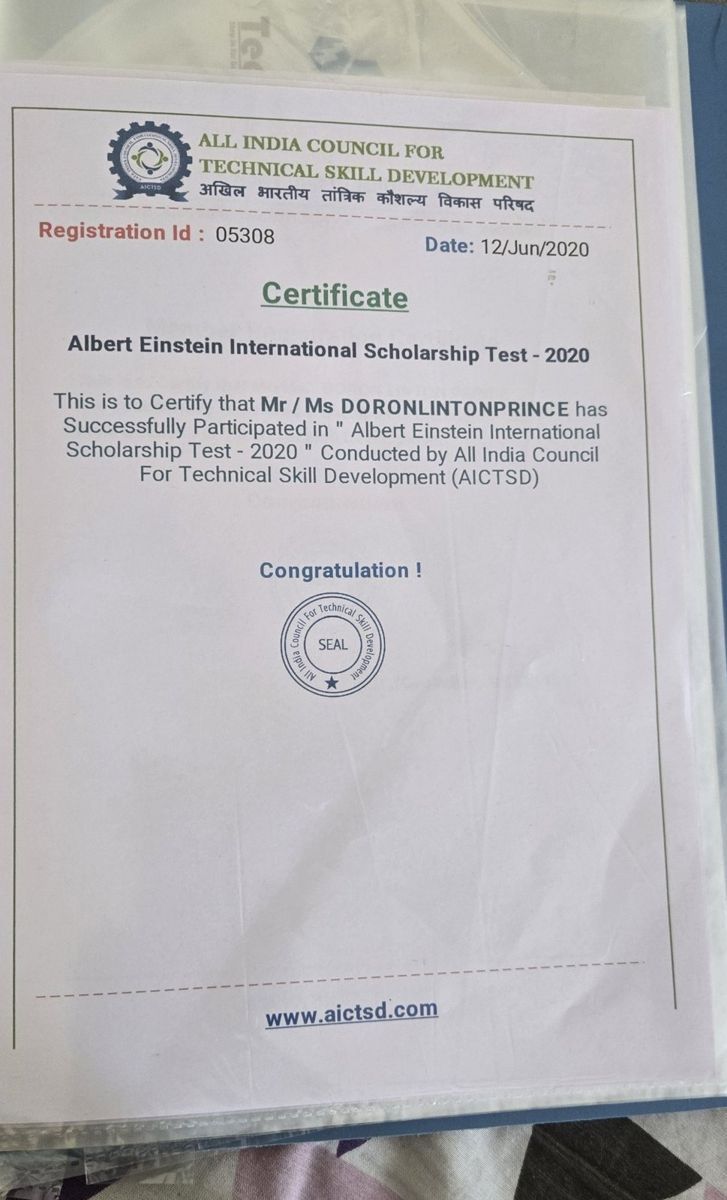
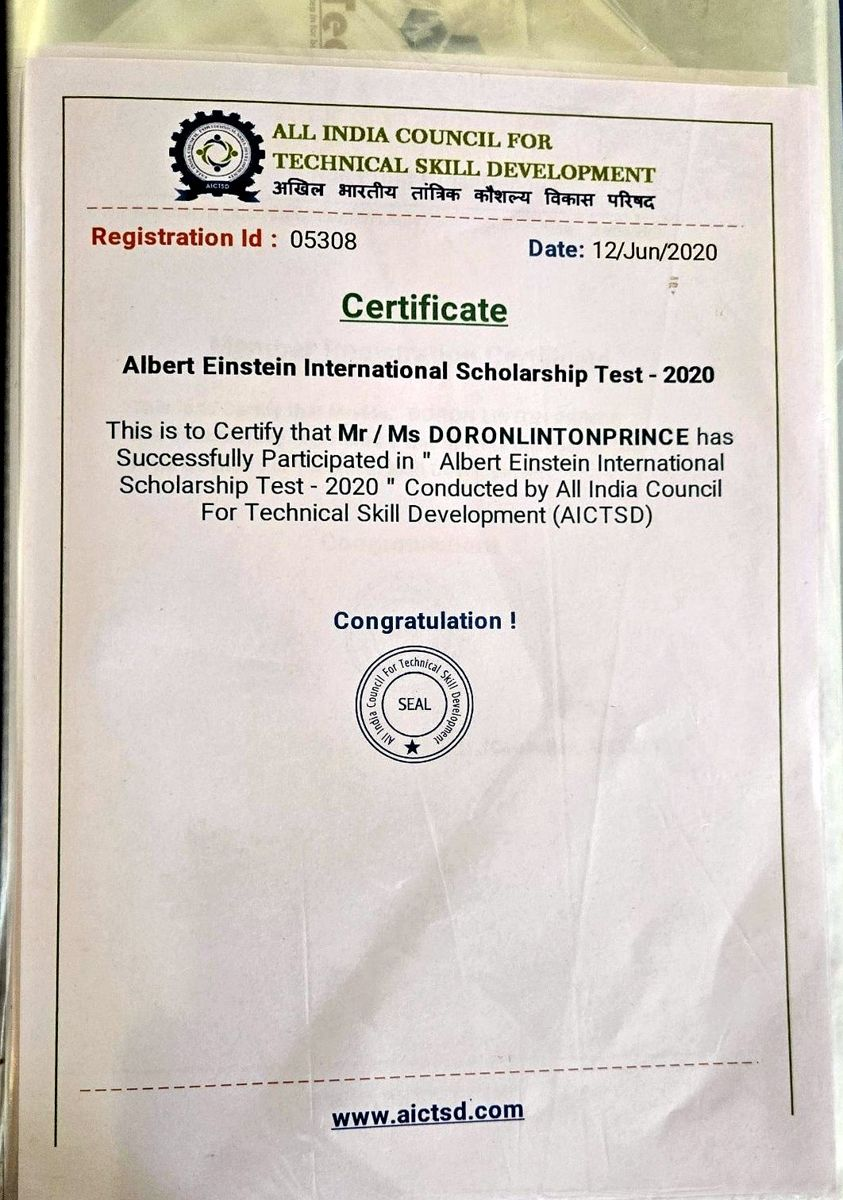
Use straightened, perspective-corrected certificate scans
Claude-Session: https://claude.ai/code/session_011wr31rNC9C3wTyA1fnovrN

diff --git a/index.html b/index.html
@@ -494,25 +494,25 @@
       </figure>
       <figure class="cert reveal">
         <button class="cert__open" type="button" data-cert="assets/certificates/sias-youth-camp.jpg" aria-label="View certificate: 2024 Global Youth Camp">
-          <img src="assets/certificates/sias-youth-camp.jpg" alt="2024 Global Youth Camp certificate" width="1200" height="777" loading="lazy" decoding="async">
+          <img src="assets/certificates/sias-youth-camp.jpg" alt="2024 Global Youth Camp certificate" width="1200" height="809" loading="lazy" decoding="async">
         </button>
         <figcaption><strong>2024 Global Youth Camp</strong><span>SIAS University, China · 2024</span></figcaption>
       </figure>
       <figure class="cert reveal">
         <button class="cert__open" type="button" data-cert="assets/certificates/iitm-ai-biomedical.jpg" aria-label="View certificate: AI with ML in Bio-Medical">
-          <img src="assets/certificates/iitm-ai-biomedical.jpg" alt="AI with ML in Bio-Medical certificate" width="1200" height="849" loading="lazy" decoding="async">
+          <img src="assets/certificates/iitm-ai-biomedical.jpg" alt="AI with ML in Bio-Medical certificate" width="1200" height="760" loading="lazy" decoding="async">
         </button>
         <figcaption><strong>AI with ML in Bio-Medical</strong><span>Techobytes × CHES IIT Madras · Jan 2024</span></figcaption>
       </figure>
       <figure class="cert reveal">
         <button class="cert__open" type="button" data-cert="assets/certificates/research-instrumentation.jpg" aria-label="View certificate: Scientific Research &amp; Instrumentation">
-          <img src="assets/certificates/research-instrumentation.jpg" alt="Scientific Research &amp; Instrumentation certificate" width="1200" height="676" loading="lazy" decoding="async">
+          <img src="assets/certificates/research-instrumentation.jpg" alt="Scientific Research &amp; Instrumentation certificate" width="1200" height="829" loading="lazy" decoding="async">
         </button>
         <figcaption><strong>Scientific Research &amp; Instrumentation</strong><span>HITS winter course · Dec 2023</span></figcaption>
       </figure>
       <figure class="cert reveal">
         <button class="cert__open" type="button" data-cert="assets/certificates/skillathon-game-design.jpg" aria-label="View certificate: Skill-A-Thon 23 · Game Designing">
-          <img src="assets/certificates/skillathon-game-design.jpg" alt="Skill-A-Thon 23 · Game Designing certificate" width="1200" height="804" loading="lazy" decoding="async">
+          <img src="assets/certificates/skillathon-game-design.jpg" alt="Skill-A-Thon 23 · Game Designing certificate" width="1200" height="768" loading="lazy" decoding="async">
         </button>
         <figcaption><strong>Skill-A-Thon 23 · Game Designing</strong><span>HITS CSE · Sep 2023</span></figcaption>
       </figure>
@@ -530,79 +530,79 @@
       </figure>
       <figure class="cert reveal">
         <button class="cert__open" type="button" data-cert="assets/certificates/code2win-rank2.jpg" aria-label="View certificate: CODE2WIN · Rank 2">
-          <img src="assets/certificates/code2win-rank2.jpg" alt="CODE2WIN · Rank 2 certificate" width="1200" height="866" loading="lazy" decoding="async">
+          <img src="assets/certificates/code2win-rank2.jpg" alt="CODE2WIN · Rank 2 certificate" width="1200" height="857" loading="lazy" decoding="async">
         </button>
         <figcaption><strong>CODE2WIN · Rank 2</strong><span>National coding competition · Dec 2021</span></figcaption>
       </figure>
       <figure class="cert reveal">
         <button class="cert__open" type="button" data-cert="assets/certificates/nittsd-school-robotics.jpg" aria-label="View certificate: Complete School Robotics">
-          <img src="assets/certificates/nittsd-school-robotics.jpg" alt="Complete School Robotics certificate" width="1200" height="953" loading="lazy" decoding="async">
+          <img src="assets/certificates/nittsd-school-robotics.jpg" alt="Complete School Robotics certificate" width="1200" height="761" loading="lazy" decoding="async">
         </button>
         <figcaption><strong>Complete School Robotics</strong><span>NITTSD · Jul 2021</span></figcaption>
       </figure>
       <figure class="cert reveal">
         <button class="cert__open" type="button" data-cert="assets/certificates/keep-moving-movement.jpg" aria-label="View certificate: Keep Moving Movement">
-          <img src="assets/certificates/keep-moving-movement.jpg" alt="Keep Moving Movement certificate" width="1200" height="873" loading="lazy" decoding="async">
+          <img src="assets/certificates/keep-moving-movement.jpg" alt="Keep Moving Movement certificate" width="1200" height="872" loading="lazy" decoding="async">
         </button>
         <figcaption><strong>Keep Moving Movement</strong><span>Life School · 2020</span></figcaption>
       </figure>
       <figure class="cert reveal">
         <button class="cert__open" type="button" data-cert="assets/certificates/maths-programmer-l2.jpg" aria-label="View certificate: School Maths Programmer · Level 2">
-          <img src="assets/certificates/maths-programmer-l2.jpg" alt="School Maths Programmer · Level 2 certificate" width="745" height="1200" loading="lazy" decoding="async">
+          <img src="assets/certificates/maths-programmer-l2.jpg" alt="School Maths Programmer · Level 2 certificate" width="864" height="1200" loading="lazy" decoding="async">
         </button>
         <figcaption><strong>School Maths Programmer · Level 2</strong><span>NITTSD × IITians Embedded · 2020</span></figcaption>
       </figure>
       <figure class="cert reveal">
         <button class="cert__open" type="button" data-cert="assets/certificates/einstein-scholarship.jpg" aria-label="View certificate: Albert Einstein Scholarship Test">
-          <img src="assets/certificates/einstein-scholarship.jpg" alt="Albert Einstein Scholarship Test certificate" width="727" height="1200" loading="lazy" decoding="async">
+          <img src="assets/certificates/einstein-scholarship.jpg" alt="Albert Einstein Scholarship Test certificate" width="843" height="1200" loading="lazy" decoding="async">
         </button>
         <figcaption><strong>Albert Einstein Scholarship Test</strong><span>AICTSD · 2020</span></figcaption>
       </figure>
       <figure class="cert reveal">
         <button class="cert__open" type="button" data-cert="assets/certificates/aictsd-membership.jpg" aria-label="View certificate: Member Registration">
-          <img src="assets/certificates/aictsd-membership.jpg" alt="Member Registration certificate" width="755" height="1200" loading="lazy" decoding="async">
+          <img src="assets/certificates/aictsd-membership.jpg" alt="Member Registration certificate" width="778" height="1200" loading="lazy" decoding="async">
         </button>
         <figcaption><strong>Member Registration</strong><span>AICTSD · 2020</span></figcaption>
       </figure>
       <figure class="cert reveal">
         <button class="cert__open" type="button" data-cert="assets/certificates/times-nie-super-league.jpg" aria-label="View certificate: School Super League">
-          <img src="assets/certificates/times-nie-super-league.jpg" alt="School Super League certificate" width="1200" height="897" loading="lazy" decoding="async">
+          <img src="assets/certificates/times-nie-super-league.jpg" alt="School Super League certificate" width="1200" height="846" loading="lazy" decoding="async">
         </button>
         <figcaption><strong>School Super League</strong><span>Times NIE · 2019–20</span></figcaption>
       </figure>
       <figure class="cert reveal">
         <button class="cert__open" type="button" data-cert="assets/certificates/sports-merit-football.jpg" aria-label="View certificate: Certificate of Merit · Football">
-          <img src="assets/certificates/sports-merit-football.jpg" alt="Certificate of Merit · Football certificate" width="1200" height="781" loading="lazy" decoding="async">
+          <img src="assets/certificates/sports-merit-football.jpg" alt="Certificate of Merit · Football certificate" width="1200" height="843" loading="lazy" decoding="async">
         </button>
         <figcaption><strong>Certificate of Merit · Football</strong><span>School sports meet · 2018–19</span></figcaption>
       </figure>
       <figure class="cert reveal">
         <button class="cert__open" type="button" data-cert="assets/certificates/crescent-science-expo.jpg" aria-label="View certificate: District Science Exhibition">
-          <img src="assets/certificates/crescent-science-expo.jpg" alt="District Science Exhibition certificate" width="1200" height="986" loading="lazy" decoding="async">
+          <img src="assets/certificates/crescent-science-expo.jpg" alt="District Science Exhibition certificate" width="1200" height="933" loading="lazy" decoding="async">
         </button>
         <figcaption><strong>District Science Exhibition</strong><span>Crescent Institute · 2018</span></figcaption>
       </figure>
       <figure class="cert reveal">
         <button class="cert__open" type="button" data-cert="assets/certificates/space-astronomy.jpg" aria-label="View certificate: Amateur Astronomer · Level 1">
-          <img src="assets/certificates/space-astronomy.jpg" alt="Amateur Astronomer · Level 1 certificate" width="1200" height="762" loading="lazy" decoding="async">
+          <img src="assets/certificates/space-astronomy.jpg" alt="Amateur Astronomer · Level 1 certificate" width="1200" height="836" loading="lazy" decoding="async">
         </button>
         <figcaption><strong>Amateur Astronomer · Level 1</strong><span>SPACE Astronomy Club · 2017–18</span></figcaption>
       </figure>
       <figure class="cert reveal">
         <button class="cert__open" type="button" data-cert="assets/certificates/ecit-robotics.jpg" aria-label="View certificate: EC Robotics Technology L1 · Grade A+">
-          <img src="assets/certificates/ecit-robotics.jpg" alt="EC Robotics Technology L1 · Grade A+ certificate" width="685" height="1200" loading="lazy" decoding="async">
+          <img src="assets/certificates/ecit-robotics.jpg" alt="EC Robotics Technology L1 · Grade A+ certificate" width="869" height="1200" loading="lazy" decoding="async">
         </button>
         <figcaption><strong>EC Robotics Technology L1 · Grade A+</strong><span>ECIL-ECIT · 2017</span></figcaption>
       </figure>
       <figure class="cert reveal">
         <button class="cert__open" type="button" data-cert="assets/certificates/learn2code-game-dev.jpg" aria-label="View certificate: Game Dev">
-          <img src="assets/certificates/learn2code-game-dev.jpg" alt="Game Dev certificate" width="1200" height="875" loading="lazy" decoding="async">
+          <img src="assets/certificates/learn2code-game-dev.jpg" alt="Game Dev certificate" width="1200" height="841" loading="lazy" decoding="async">
         </button>
         <figcaption><strong>Game Dev</strong><span>Learn2Code · RoboGarden</span></figcaption>
       </figure>
       <figure class="cert reveal">
         <button class="cert__open" type="button" data-cert="assets/certificates/times-nie-aptitude.jpg" aria-label="View certificate: National Aptitude Challenge">
-          <img src="assets/certificates/times-nie-aptitude.jpg" alt="National Aptitude Challenge certificate" width="1200" height="894" loading="lazy" decoding="async">
+          <img src="assets/certificates/times-nie-aptitude.jpg" alt="National Aptitude Challenge certificate" width="1200" height="785" loading="lazy" decoding="async">
         </button>
         <figcaption><strong>National Aptitude Challenge</strong><span>Times NIE · 2016–17</span></figcaption>
       </figure>
